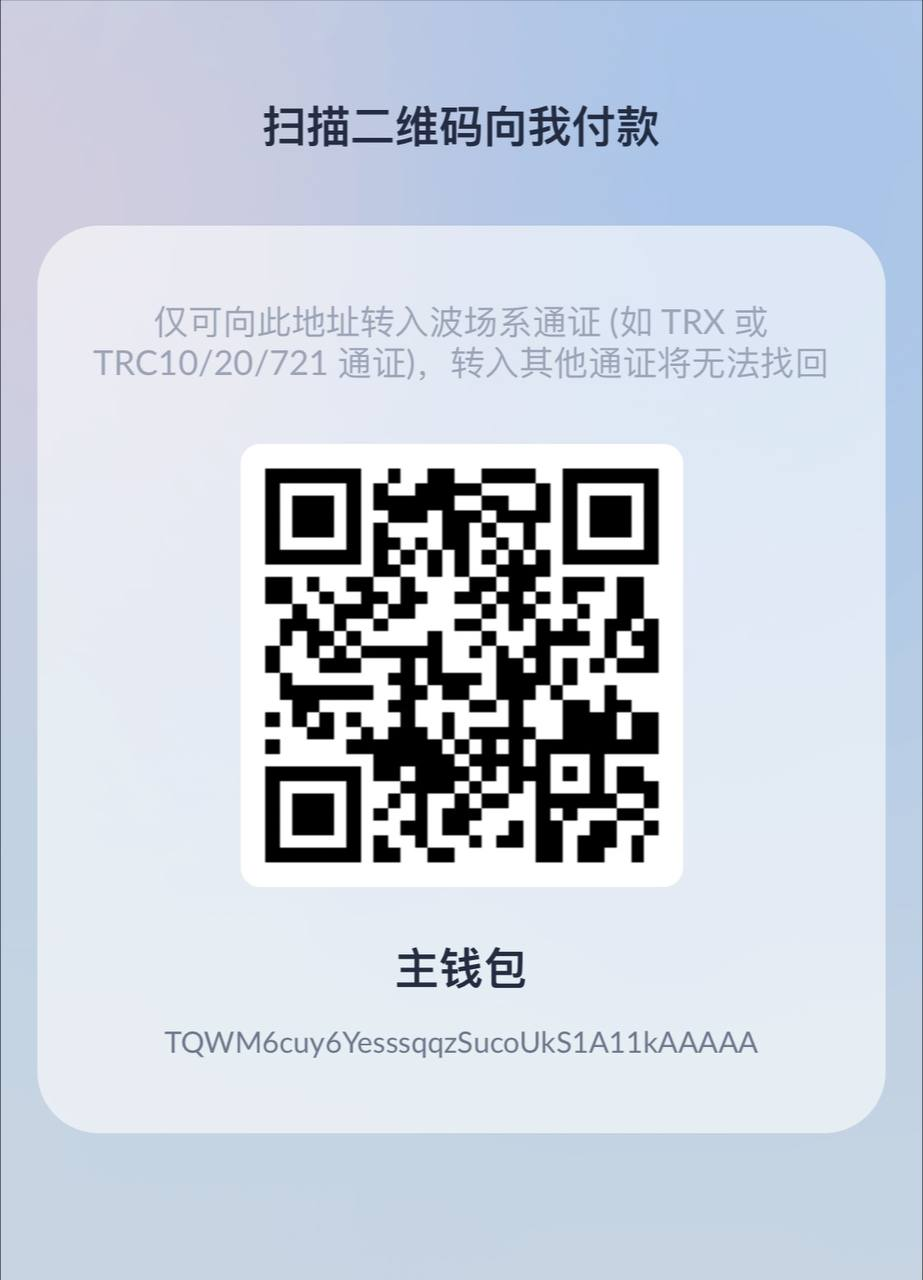
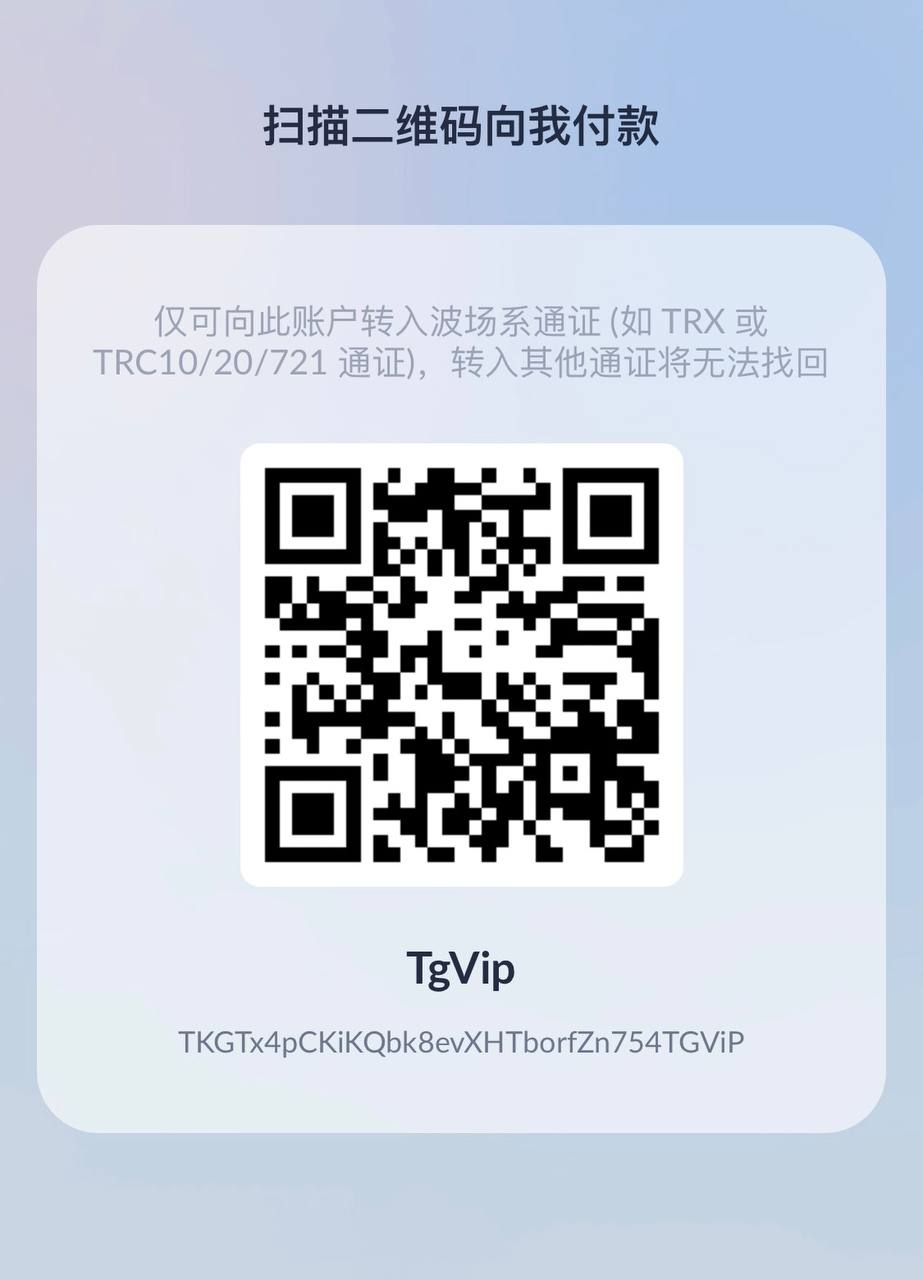
优化群内体验，增加自动设置菜单，优化示例配置文件

diff --git a/src/Telegram.CoinConvertBot/BgServices/BotHandler/UpdateHandlers.cs b/src/Telegram.CoinConvertBot/BgServices/BotHandler/UpdateHandlers.cs
@@ -20,6 +20,7 @@ namespace Telegram.CoinConvertBot.BgServices.BotHandler;
 
 public static class UpdateHandlers
 {
+    public static string? BotUserName = null!;
     public static IConfiguration configuration = null!;
     public static IFreeSql freeSql = null!;
     public static IServiceScopeFactory serviceScopeFactory = null!;
@@ -93,6 +94,7 @@ public static class UpdateHandlers
         {
             Log.Logger.Error(e, "更新Telegram用户信息失败！");
         }
+        messageText = messageText.Replace($"@{BotUserName}", "");
         var action = messageText.Split(' ')[0] switch
         {
             "/start" => Start(botClient, message),
@@ -245,7 +247,7 @@ USDT： <b>{USDT}</b>
 转帐前，推荐您使用以下命令来接收入账通知
 <code>绑定波场地址 Txxxxxxx</code>(您的钱包地址)
 ";
-            if(USDTFeeRate == 0)
+            if (USDTFeeRate == 0)
             {
                 msg = @$"<b>请向此地址转入任意金额，机器人自动回款TRX</b>
 机器人收款地址： <code>{ReciveAddress}</code>
@@ -308,10 +310,8 @@ USDT： <b>{USDT}</b>
 当前支持兑换以下币种：
 <code>USDT-TRC20 --> TRX</code>
 
-即将支持兑换的币种：
-<code>       TRX --> USDT-TRC20</code>
-<code>       ETH --> USDT-ERC20</code>
-<code>USDT-ERC20 --> ETH </code>
+本机器人为<a href='https://github.com/LightCountry'>LightCountry</a>旗下开源机器人！
+项目地址：<a href='https://github.com/LightCountry/CoinConvertBot'>Telegram.CoinConvertBot</a>
 
 如有需要，请联系管理员： {AdminUserUrl}
 ";
@@ -319,6 +319,7 @@ USDT： <b>{USDT}</b>
             return await botClient.SendTextMessageAsync(chatId: message.Chat.Id,
                                                         text: usage,
                                                         parseMode: ParseMode.Html,
+                                                        disableWebPagePreview: true,
                                                         replyMarkup: new ReplyKeyboardRemove());
         }
         //估价
@@ -351,10 +352,7 @@ USDT： <b>{USDT}</b>
             {
                 return await ValuationAction(botClient, message, trxPrice, Currency.TRX, Currency.USDT);
             }
-            return await botClient.SendTextMessageAsync(chatId: message.Chat.Id,
-                                                        text: "未知输入！",
-                                                        parseMode: ParseMode.Html,
-                                                        replyMarkup: new ReplyKeyboardRemove());
+            return message;
         }
         static async Task<Message> ValuationAction(ITelegramBotClient botClient, Message message, decimal price, Currency fromCurrency, Currency toCurrency)
         {

diff --git a/src/Telegram.CoinConvertBot/Program.cs b/src/Telegram.CoinConvertBot/Program.cs
@@ -9,7 +9,9 @@ using System.Data.Common;
 using System.Net;
 using System.Reflection;
 using Telegram.Bot;
+using Telegram.Bot.Types;
 using Telegram.CoinConvertBot.BgServices;
+using Telegram.CoinConvertBot.BgServices.BotHandler;
 using Telegram.CoinConvertBot.Domains;
 using Telegram.CoinConvertBot.Models;
 using TronNet;
@@ -94,7 +96,19 @@ static void ConfigureServices(HostBuilderContext Context, IServiceCollection Ser
     }
     Log.Logger.Information("开始{UseProxy}连接Telegram服务器...", (useProxy ? "使用代理" : "不使用代理"));
     var me = botClient.GetMeAsync().GetAwaiter().GetResult();
-    Log.Logger.Information("Telegram机器人上线！机器人ID：{Id}，机器人名字：{FirstName}.", me.Id, me.FirstName);
+    UpdateHandlers.BotUserName = me.Username;
+    var SetDefaultMenu = Configuration.GetValue<bool>("SetDefaultMenu");
+    if (SetDefaultMenu)
+    {
+        botClient.SetMyCommandsAsync(new BotCommand[]
+        {
+        //new BotCommand(){Command="start",Description="欢迎兑换本机器人"},
+        new BotCommand(){Command="trx",Description="USDT-TRC20兑换TRX"},
+        new BotCommand(){Command="trx_price",Description="实时价目表"},
+        new BotCommand(){Command="valuation",Description="估价"},
+        }).GetAwaiter().GetResult();
+    }
+    Log.Logger.Information("Telegram机器人上线！机器人ID：{Id}({username})，机器人名字：{FirstName}.", me.Id, $"@{me.Username}", me.FirstName);
     var AdminUserId = Configuration.GetValue<long>("BotConfig:AdminUserId");
     if (AdminUserId > 0)
     {

diff --git a/src/Telegram.CoinConvertBot/BgServices/TransferTrxService.cs b/src/Telegram.CoinConvertBot/BgServices/TransferTrxService.cs
@@ -25,7 +25,8 @@ namespace Telegram.CoinConvertBot.BgServices
         private readonly IConfiguration _configuration;
         private readonly ITelegramBotClient _botClient;
         private readonly IServiceProvider _serviceProvider;
-        private string TransferMemo => _configuration.GetValue("TransferMemo", "Transfer From Github CoinConvertBot");
+        //备注开始收手续费了，去掉
+        //private string TransferMemo => _configuration.GetValue("TransferMemo", "Transfer From Github CoinConvertBot");
         private long SendTo => _configuration.GetValue<long>("SendTo");
 
         public TransferTrxService(ILogger<TransferTrxService> logger,
@@ -68,7 +69,7 @@ namespace Telegram.CoinConvertBot.BgServices
                 order.ConvertAmount = order.OriginalAmount.USDT_To_TRX(rate, UpdateHandlers.FeeRate, UpdateHandlers.USDTFeeRate);
                 try
                 {
-                    var result = await TransferTrxAsync(scope.ServiceProvider, order.FromAddress, order.ConvertAmount, TransferMemo);
+                    var result = await TransferTrxAsync(scope.ServiceProvider, order.FromAddress, order.ConvertAmount);
                     if (result.Success)
                     {
                         order.Status = Status.Paid;

diff --git a/README.md b/README.md
@@ -18,6 +18,16 @@
 快来领取你的可刷USDT的国际银行卡吧   
 ➡➡➡ [点击领取你的国际信用卡](https://depay.depay.one/web-app/register-h5?invitCode=949656&lang=zh-cn)
 
+## AD -- 机器人推广
+查币机 - 链上信息查询：[查币机](https://t.me/QueryCoinBot)
+> 支持TRON、ETH、Polygon、BSC多链资产查询，也支持多种法币与区块链货币的实时汇率查询。
+
+USDT、TRX交易监控机器人：[USDT、TRX交易监控](https://t.me/CoinListenBot)
+> 监控波场地址余额变化，速度比钱包App的推送更快！！！
+
+兑币机 - TRX自动兑换：[兑币机](https://t.me/CoinConvertBot)
+> 自用兑币机，此开源项目脱胎于此机器人早期版本
+
 ## 项目简介
 - `CoinConvertBot`是一个由`C#语言`编写的私有化部署`USDT-TRC20`全自动兑换`TRX`的机器人。     
 - 本项目不依赖任何外部资源，无需另外部署`数据库`，采用轻量化的`sqlite`，也无需`redis`。
@@ -64,7 +74,7 @@ CoinConvertBot
 ## 打赏
 如果该项目对您有所帮助，希望可以请我喝一杯咖啡☕
 ```
-USDT-TRC20打赏地址: TQWM6cuy6YesssqqzSucoUkS1A11kAAAAA
+USDT-TRC20打赏地址: TKGTx4pCKiKQbk8evXHTborfZn754TGViP
 ```
 <img src="wiki/imgs/usdt_thanks.jpg" width = "400" alt="usdt扫码打赏"/>
 
